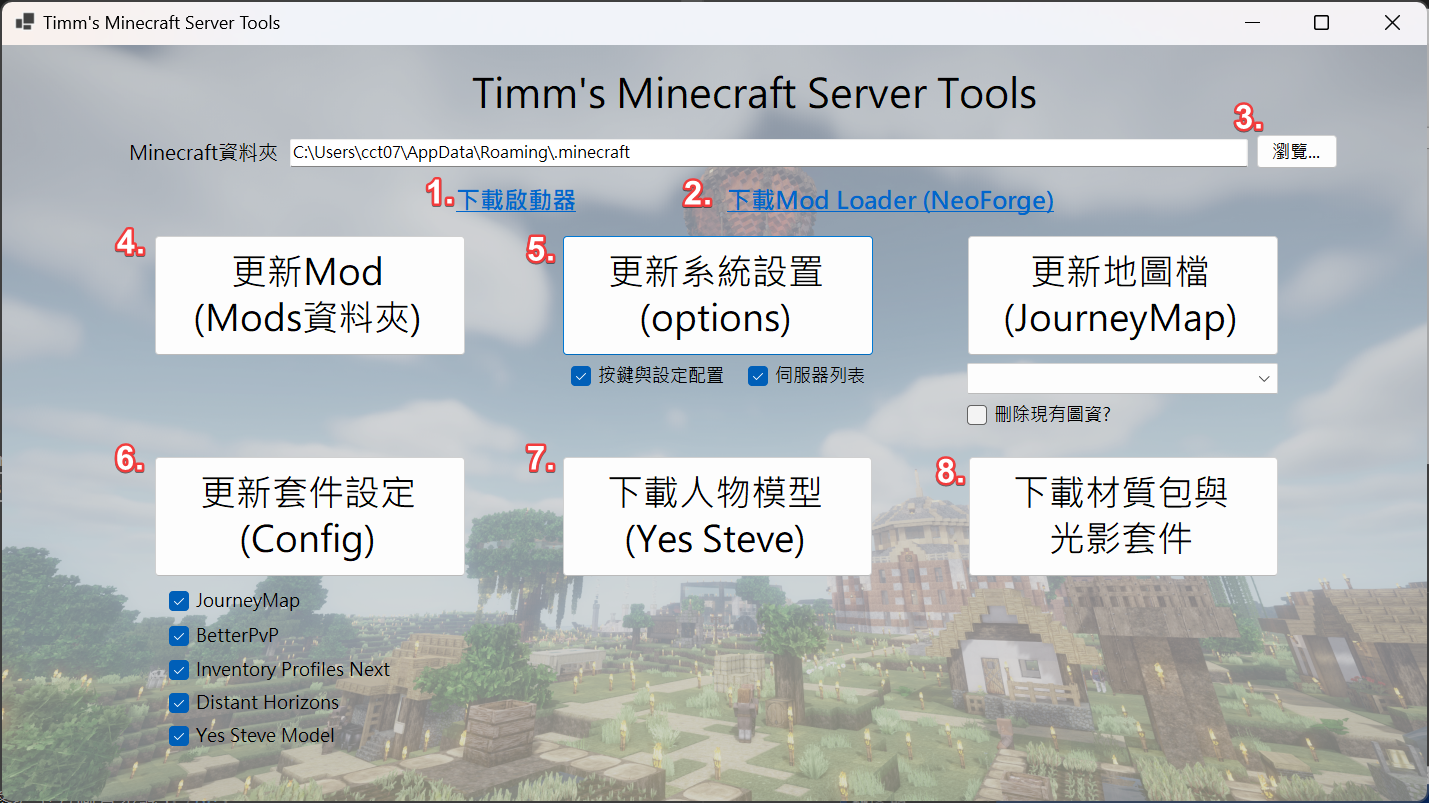
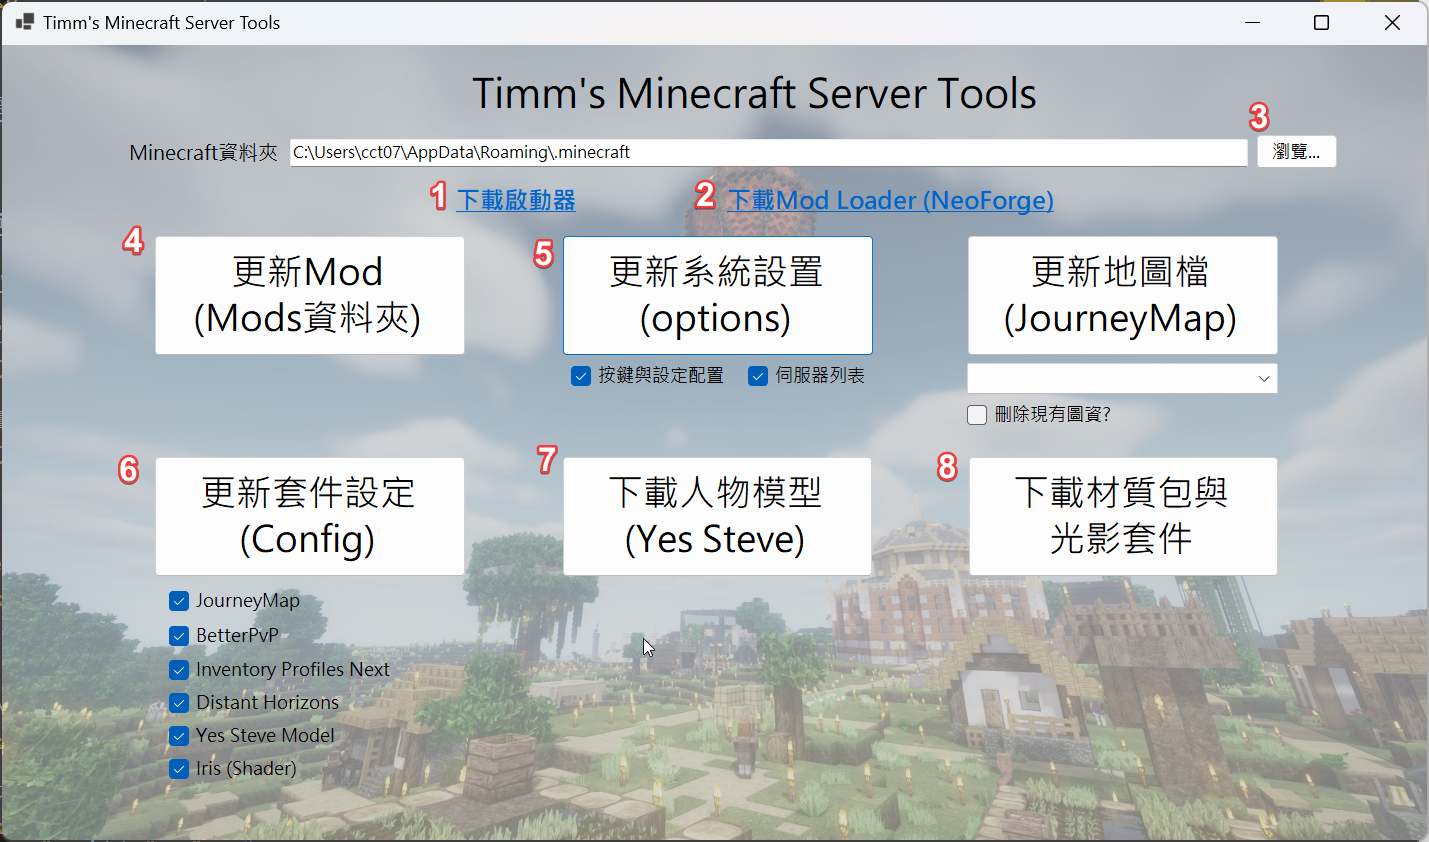
Update server tool descriptions

diff --git a/setup.md b/setup.md
@@ -8,7 +8,7 @@
 
 ## I 下載Server安裝小工具**
   
-  1. 下載[檔案匯入小工具](https://drive.google.com/file/d/13wBE3E1xyvtOcqAntxPvxp8QNv1LhS4z/view?usp=sharing)的壓縮檔
+  1. 下載[檔案匯入小工具](https://drive.google.com/file/d/1zUCE_tuY-3dLtUbas8YL-3d6fJs3T8uj/view?usp=sharing)的壓縮檔
   2. 解壓縮後點選"TimmsMinecraftTool.exe"
 
       <img src="./images/t2.png"  width="800"></br>
@@ -100,6 +100,7 @@
     ※ Inventory Profile Next為裝飾裝備模組，將關閉會干擾物品欄顯示的箭頭圖案</br>
     ※ Distant Horizons為遠方景觀模組，將會關閉雲的顯示(推薦關閉是因為會跟光影模組重複)</br>
     ※ Yes Steve Model為立體人物模組，將把第三人稱小人物預覽移到介面右下角</br>
+    ※ Iris為光影模組支援，將儲存光影包相關設定</br>
 
 7. **點選"下載人物模型"**
 
@@ -118,7 +119,7 @@
 
   1. **新增多人伺服器**</br>
 
-      點選多人遊戲 → 如果剛才小工具有勾選更新"伺服器列表"，將顯示此伺服器 (網址為minecraft.timmchen.com)</br>
+      點選多人遊戲 → 如果剛才小工具有勾選更新"伺服器列表"，將已顯示此伺服器 (網址為minecraft.timmchen.com)</br>
 
   2. **送出申請表單**</br>
 
